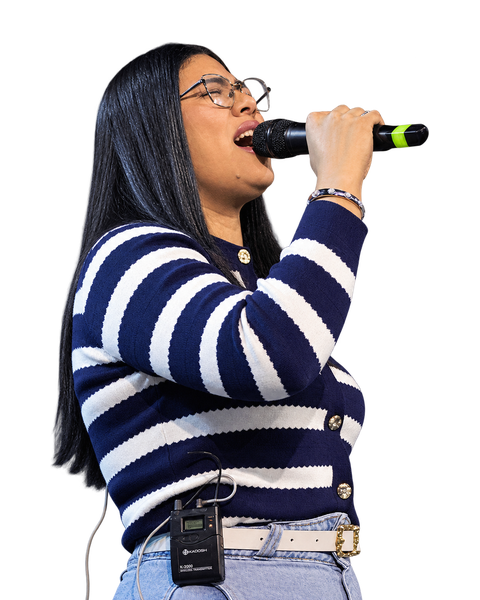
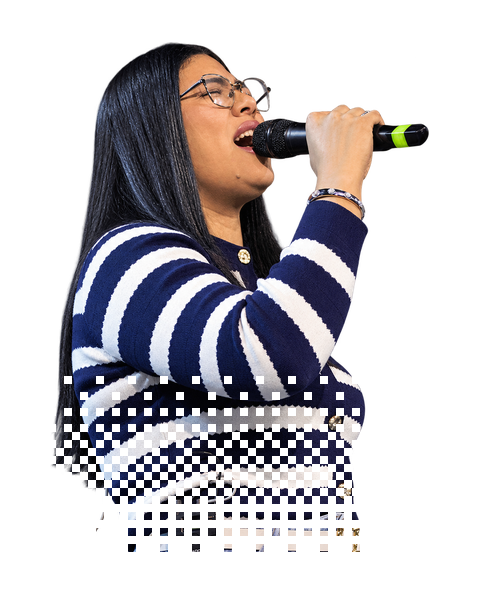
Line-up no estilo palco: foto saindo do card, base em pixels e nome gigante
- Card escuro da marca com cantos em degrau e borda pontilhada; a pessoa
  sai pelo topo e se dissolve em pixels na base (efeito gravado na imagem).
- Nome em Bebas Neue gigante (rosado e nude) com etiqueta torta por cima,
  medido em cqi: mesmo desenho no celular e no notebook.
- Cards maiores a partir de 1280 px; grade sutil no fundo da secao.
- Janela da bio le o nome completo de data-nome.

Changed region(s): [[0.0938, 0.63, 0.7812, 1.0], [0.1562, 0.9, 0.1875, 1.0], [0.1875, 0.87, 0.2188, 0.9]]

diff --git a/style.css b/style.css
@@ -1726,7 +1726,12 @@ html.entrada-ativa .entrada.is-dissolvendo {
     align-items: center;
     padding: 88px 0 72px;
     overflow: hidden;
-    background: var(--terracota);
+    /* grade de palco, bem apagada, com um "+" em cada cruzamento */
+    background:
+        radial-gradient(circle, rgba(245, 232, 226, 0.22) 1.5px, transparent 2px) -1px -1px / 64px 64px,
+        linear-gradient(rgba(245, 232, 226, 0.07) 1px, transparent 1px) 0 0 / 64px 64px,
+        linear-gradient(90deg, rgba(245, 232, 226, 0.07) 1px, transparent 1px) 0 0 / 64px 64px,
+        var(--terracota);
 }
 
 .lineup-folha {
@@ -1767,73 +1772,93 @@ html.entrada-ativa .entrada.is-dissolvendo {
     margin-bottom: 48px;
 }
 
-/* dois nomes: cabem lado a lado em qualquer largura, sem carrossel */
+/* Dois nomes, lado a lado em qualquer largura. O card é um "palco" escuro
+   com cantos em degrau; a pessoa sai pelo topo e se dissolve em pixels na
+   base (o efeito já vem gravado na imagem), e o nome gigante entra por cima.
+   Tudo dentro do card é medido em cqi (% da largura do card), então o
+   desenho é o mesmo no celular e no notebook, só muda o tamanho. */
 .lineup-trilho {
     list-style: none;
     display: grid;
     grid-template-columns: repeat(2, minmax(0, 1fr));
-    gap: 16px;
-    max-width: 640px;
+    gap: clamp(14px, 4vw, 64px);
+    max-width: 960px;
     margin-inline: auto;
-    padding: 16px var(--lateral) 20px;
+    /* folga no topo para a cabeça que sai do card */
+    padding: clamp(36px, 7vw, 72px) var(--lateral) 20px;
 }
 
-/* cartão polaroid, levemente torto, alternando o lado */
+/* notebook grande e monitor: os dois cards crescem para ocupar a tela */
+@media (min-width: 1280px) {
+    .lineup-trilho {
+        max-width: 1120px;
+        gap: 96px;
+    }
+}
+
 .lineup-card {
-    display: flex;
-    flex-direction: column;
+    --escuro: #3E1A10;
+    position: relative;
+    display: block;
     width: 100%;
-    padding: 8px 8px 14px;
+    aspect-ratio: 4 / 5;
+    padding: 0;
     border: 0;
-    background: #FFFBF9;
-    box-shadow: 0 14px 30px rgba(62, 26, 16, 0.25);
+    background: none;
+    color: inherit;
+    font: inherit;
+    text-align: center;
     cursor: pointer;
-    text-align: left;
-    rotate: -1.5deg;
-    transition: rotate 0.4s var(--ease-saida), transform 0.4s var(--ease-saida);
-}
-
-.lineup-item:nth-child(even) .lineup-card {
-    rotate: 1.5deg;
+    container-type: inline-size;
+    transition: transform 0.4s var(--ease-saida);
 }
 
 .lineup-card:hover,
 .lineup-card:focus-visible {
-    rotate: 0deg;
     transform: translateY(-6px);
 }
 
-/* As fotos são recortes com fundo transparente, todas no mesmo enquadramento
-   (4:5, cabeça a 7% do topo). O fundo é da marca: luz rosada atrás da
-   cabeça, o símbolo das pétalas bem apagado e o tom alternando de card
-   para card, como o giro. */
-.lineup-foto {
-    --fundo-luz: var(--rosado);
-    --fundo-borda: var(--terracota);
-    width: 100%;
-    aspect-ratio: 4 / 5;
+.lineup-card:focus-visible {
+    outline: 3px solid var(--rosado);
+    outline-offset: 6px;
+}
+
+/* o palco: escuro da marca, luz terracota atrás da pessoa, cantos em degrau */
+.lineup-palco {
+    position: absolute;
+    inset: 0;
     background:
-        radial-gradient(120% 90% at 50% 30%, var(--fundo-luz) 0%, var(--nude) 55%, var(--fundo-borda) 100%);
+        radial-gradient(70% 55% at 50% 38%, rgba(184, 104, 79, 0.55), transparent 70%),
+        var(--escuro);
+    clip-path: polygon(
+        0 7cqi, 5cqi 7cqi, 5cqi 0,
+        100% 0, 100% 62%,
+        97cqi 62%, 97cqi 88%, 100% 88%,
+        100% 100%, 8cqi 100%, 8cqi calc(100% - 4cqi), 0 calc(100% - 4cqi)
+    );
+    box-shadow: 0 18px 40px rgba(62, 26, 16, 0.35);
 }
 
-.lineup-item:nth-child(even) .lineup-foto {
-    --fundo-luz: var(--papel);
-    --fundo-borda: var(--tijolo);
-}
-
-.lineup-foto::before {
+/* borda pontilhada por dentro, a mesma linguagem do fim da página */
+.lineup-palco::after {
     content: '';
     position: absolute;
-    inset: 8% 6% auto;
-    aspect-ratio: 1;
-    background: url('assets/imagens/marca/simbolo.png') center / contain no-repeat;
-    opacity: 0.16;
-    rotate: -8deg;
-    transition: opacity 0.4s, rotate 0.6s var(--ease-saida);
+    inset: 3.2cqi;
+    border: 2px dotted rgba(223, 185, 166, 0.35);
+    border-radius: 2px;
 }
 
-.lineup-item:nth-child(even) .lineup-foto::before {
-    rotate: 8deg;
+/* a foto é maior que o card e ancorada acima da faixa do nome: a cabeça
+   passa do topo e a base dissolvida fica atrás do nome */
+.lineup-foto {
+    position: absolute;
+    left: -4%;
+    right: -4%;
+    bottom: 11%;
+    aspect-ratio: 4 / 5;
+    overflow: visible;
+    background: none;
+    z-index: 1;
 }
 
 .lineup-foto picture {
@@ -1846,56 +1871,102 @@ html.entrada-ativa .entrada.is-dissolvendo {
 }
 
 .lineup-foto img {
-    position: relative;
     width: 100%;
     height: 100%;
     object-fit: contain;
     object-position: bottom center;
     transform-origin: bottom center;
-    filter: sepia(0.12) saturate(0.95) drop-shadow(0 10px 14px rgba(62, 26, 16, 0.28));
-    transition: transform 0.6s var(--ease-saida), filter 0.4s;
+    filter: drop-shadow(0 -2px 18px rgba(62, 26, 16, 0.45));
+    transition: transform 0.6s var(--ease-saida);
 }
 
 .lineup-card:hover .lineup-foto img,
 .lineup-card:focus-visible .lineup-foto img {
-    transform: scale(1.05);
-    filter: drop-shadow(0 14px 18px rgba(62, 26, 16, 0.32));
-}
-
-.lineup-card:hover .lineup-foto::before,
-.lineup-card:focus-visible .lineup-foto::before {
-    opacity: 0.26;
-    rotate: 0deg;
+    transform: scale(1.04);
 }
 
 .lineup-nome {
-    margin-top: 12px;
-    font-family: var(--fonte-titulo);
-    font-weight: 800;
-    font-variation-settings: "SOFT" 100, "WONK" 1;
-    font-size: clamp(1rem, 3.8vw, 1.3rem);
-    line-height: 1.1;
-    color: var(--tijolo);
-}
-
-.lineup-tag {
+    position: absolute;
+    left: 5cqi;
+    right: 5cqi;
+    bottom: 7cqi;
+    z-index: 2;
     display: flex;
+    flex-direction: column;
     align-items: center;
-    gap: 6px;
-    margin-top: 8px;
-    font-size: 0.68rem;
-    font-weight: 700;
-    letter-spacing: 0.08em;
+    font-family: var(--fonte-faixa);
+    font-weight: 400;
+    line-height: 0.84;
     text-transform: uppercase;
-    color: var(--texto);
+    letter-spacing: 0.01em;
+    text-shadow: 0 3px 0 rgba(62, 26, 16, 0.55);
 }
 
-.lineup-tag::after {
-    content: '+ bio';
-    padding: 2px 8px;
+/* sombra escura atrás do nome, para ele não brigar com a roupa dissolvida.
+   Fica dentro da borda pontilhada, longe dos degraus do card. */
+.lineup-nome::before {
+    content: '';
+    position: absolute;
+    left: -1.8cqi;
+    right: -1.8cqi;
+    bottom: -2.8cqi;
+    top: -18cqi;
+    z-index: -1;
+    background: linear-gradient(rgba(62, 26, 16, 0), rgba(62, 26, 16, 0.78) 45%, rgba(62, 26, 16, 0.92));
+}
+
+.lineup-nome-1,
+.lineup-nome-2 {
+    font-size: clamp(26px, 7vw, 88px);   /* sem suporte a cqi */
+    font-size: 21cqi;
+}
+
+.lineup-nome-1 {
+    color: var(--rosado);
+}
+
+.lineup-nome-2 {
+    color: var(--nude);
+}
+
+/* etiqueta colada por cima do nome, torta como as faixas do site */
+.lineup-tag {
+    position: relative;
+    z-index: 1;
+    margin: -1.5cqi 0 -0.5cqi;
+    padding: 1.6cqi 4.5cqi 1.3cqi;
+    background: var(--nude);
+    color: var(--tijolo);
+    font: 700 max(9px, 3.7cqi)/1 var(--fonte-texto);
+    letter-spacing: 0.14em;
+    text-shadow: none;
+    rotate: -4deg;
+    box-shadow: 0.8cqi 0.8cqi 0 var(--escuro);
+}
+
+.lineup-item:nth-child(even) .lineup-tag {
+    rotate: 3deg;
+}
+
+.lineup-bio {
+    position: absolute;
+    top: 7cqi;
+    left: 7cqi;
+    z-index: 3;
+    padding: 1.4cqi 3cqi;
     border-radius: 999px;
     background: var(--tijolo);
     color: var(--rosado);
+    font: 700 max(9px, 3.2cqi)/1 var(--fonte-texto);
+    letter-spacing: 0.08em;
+    text-transform: uppercase;
+    transition: background 0.3s, color 0.3s;
+}
+
+.lineup-card:hover .lineup-bio,
+.lineup-card:focus-visible .lineup-bio {
+    background: var(--rosado);
+    color: var(--tijolo);
 }
 
 /* =============================================
@@ -3285,8 +3356,7 @@ html.entrada-ativa .entrada.is-dissolvendo {
     }
 
     .lineup-trilho {
-        gap: 44px 28px;
-        padding: 16px 0;
+        padding: 72px 0 16px;
     }
 
     .ticket-topo {

diff --git a/index.html b/index.html
@@ -361,21 +361,31 @@
             </h2>
 
             <div class="lineup-carrossel">
-                <!-- EDITAR: fotos em assets/imagens/lineup/ (N-480.webp, N-800.webp e N-480.png, recorte com fundo transparente em 4:5). A bio de cada pessoa fica no <template> logo abaixo do cartão. -->
+                <!-- EDITAR: fotos em assets/imagens/lineup/ (N-480.webp, N-800.webp e N-480.png: recorte com fundo transparente em 4:5, com a base já dissolvida em pixels). O nome completo vai em data-nome (é o que a janela da bio mostra). A bio de cada pessoa fica no <template> logo abaixo do cartão. -->
                 <ul class="lineup-trilho">
                     <li class="lineup-item">
-                        <button class="lineup-card" type="button" data-bio="bio-1">
-                            <span class="lineup-foto midia" data-rotulo="foto"><picture><source type="image/webp" srcset="assets/imagens/lineup/1-480.webp 480w, assets/imagens/lineup/1-800.webp 800w" sizes="(min-width: 1024px) 300px, 45vw"><img src="assets/imagens/lineup/1-480.png" alt="" width="480" height="600" loading="lazy"></picture></span>
-                            <span class="lineup-nome">Pra. Débora Cordeiro</span>
-                            <span class="lineup-tag">pastora</span>
+                        <button class="lineup-card" type="button" data-bio="bio-1" data-nome="Pra. Débora Cordeiro" aria-label="Ver biografia: Pra. Débora Cordeiro">
+                            <span class="lineup-palco" aria-hidden="true"></span>
+                            <span class="lineup-foto midia" data-rotulo="foto"><picture><source type="image/webp" srcset="assets/imagens/lineup/1-480.webp?v=2 480w, assets/imagens/lineup/1-800.webp?v=2 800w" sizes="(min-width: 1024px) 460px, 50vw"><img src="assets/imagens/lineup/1-480.png?v=2" alt="" width="480" height="600" loading="lazy"></picture></span>
+                            <span class="lineup-nome" aria-hidden="true">
+                                <span class="lineup-nome-1">Débora</span>
+                                <span class="lineup-tag">pastora</span>
+                                <span class="lineup-nome-2">Cordeiro</span>
+                            </span>
+                            <span class="lineup-bio" aria-hidden="true">+ bio</span>
                         </button>
                         <template id="bio-1"><p>Breve biografia da Pra. Débora Cordeiro: quem é, o que lidera e qual mensagem carrega.</p></template>
                     </li>
                     <li class="lineup-item">
-                        <button class="lineup-card" type="button" data-bio="bio-2">
-                            <span class="lineup-foto midia" data-rotulo="foto"><picture><source type="image/webp" srcset="assets/imagens/lineup/2-480.webp 480w, assets/imagens/lineup/2-800.webp 800w" sizes="(min-width: 1024px) 300px, 45vw"><img src="assets/imagens/lineup/2-480.png" alt="" width="480" height="600" loading="lazy"></picture></span>
-                            <span class="lineup-nome">Salmista Diorgenis Martinez</span>
-                            <span class="lineup-tag">louvor</span>
+                        <button class="lineup-card" type="button" data-bio="bio-2" data-nome="Salmista Diorgenis Martinez" aria-label="Ver biografia: Salmista Diorgenis Martinez">
+                            <span class="lineup-palco" aria-hidden="true"></span>
+                            <span class="lineup-foto midia" data-rotulo="foto"><picture><source type="image/webp" srcset="assets/imagens/lineup/2-480.webp?v=2 480w, assets/imagens/lineup/2-800.webp?v=2 800w" sizes="(min-width: 1024px) 460px, 50vw"><img src="assets/imagens/lineup/2-480.png?v=2" alt="" width="480" height="600" loading="lazy"></picture></span>
+                            <span class="lineup-nome" aria-hidden="true">
+                                <span class="lineup-nome-1">Diorgenis</span>
+                                <span class="lineup-tag">salmista</span>
+                                <span class="lineup-nome-2">Martinez</span>
+                            </span>
+                            <span class="lineup-bio" aria-hidden="true">+ bio</span>
                         </button>
                         <template id="bio-2"><p>Breve biografia do salmista Diorgenis Martinez e do seu ministério.</p></template>
                     </li>

diff --git a/script.js b/script.js
@@ -1146,7 +1146,7 @@
             document.querySelectorAll('.lineup-card').forEach(function (cartao) {
                 cartao.addEventListener('click', function () {
                     var modelo = document.getElementById(cartao.dataset.bio);
-                    bioNome.textContent = cartao.querySelector('.lineup-nome').textContent;
+                    bioNome.textContent = cartao.dataset.nome || cartao.querySelector('.lineup-nome').textContent;
                     bioTexto.replaceChildren(modelo ? modelo.content.cloneNode(true) : '');
                     bioModal.querySelector('.bio-card').scrollTop = 0;
                     abrirModal(bioModal);
